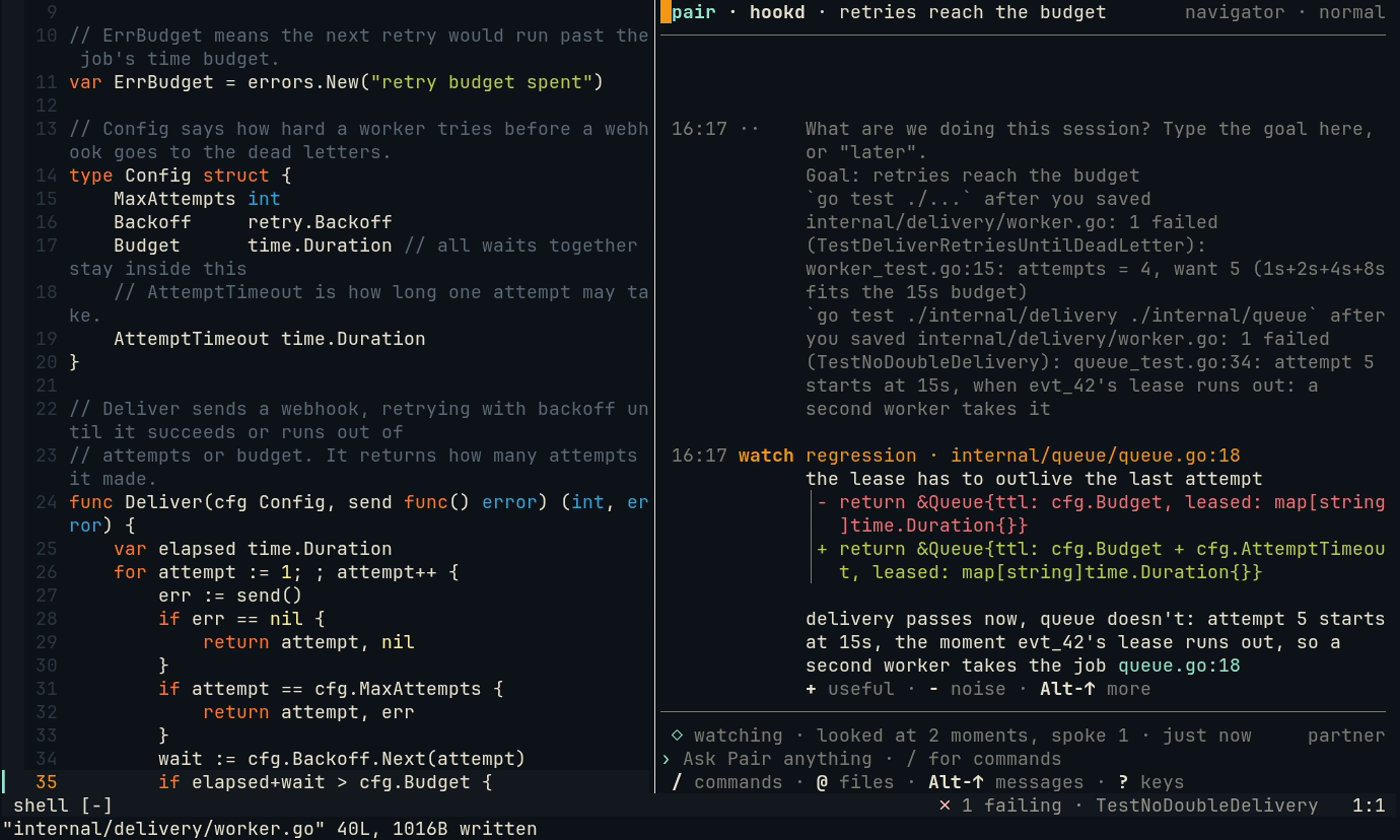
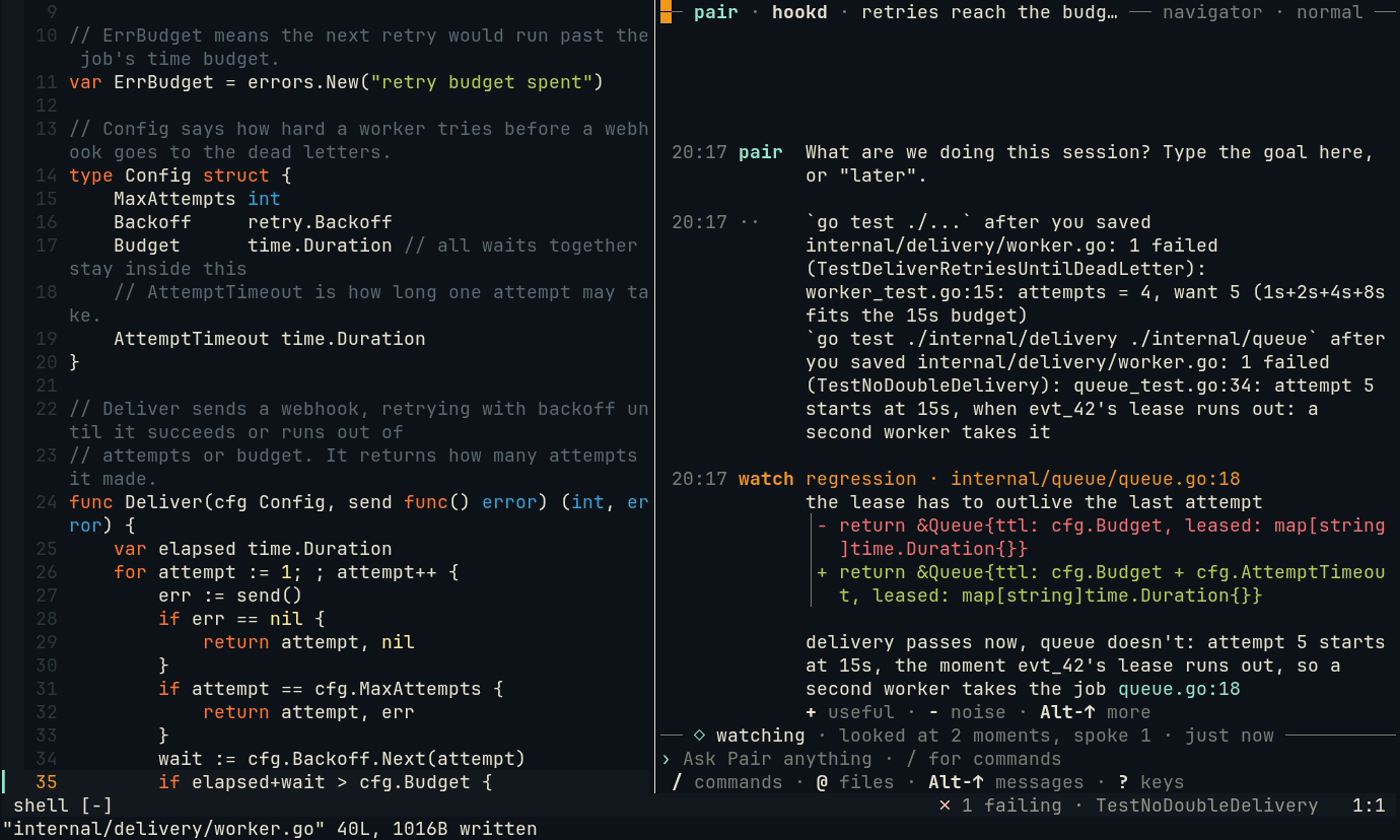
Chat captures re-recorded; a long command wraps at its spaces
The chat, held-thought and debrief scenes are recorded again with the
header and the status in their rules and the new colours. The chat tape
waits 1.5 s for the key help before its still, which came too early.
The command under Pair's y/N question wraps at its spaces behind the bar.

diff --git a/docs/captures/README.md b/docs/captures/README.md
@@ -68,7 +68,7 @@ recording comes out the same each time; the tutorial video's scenes use a real m
 | [agents](tapes/agents.tape) | your other agents' news, one line at your next breakpoint, and `:Pair agents` |
 | [notes](tapes/notes.tape) | notes in the margin: the marks, a fixed line, a decision logged, the tasks panel |
 | [teach](tapes/teach.tape) | Alt-? on a remark: the idea worth keeping behind it, and its link |
-| [chat](tapes/chat.tape) | the chat pane: a remark on save with its diff, a question asked there, the status row while Pair reads, the answer streaming in, a remark picked with `Ctrl-F`, and `?` |
+| [chat](tapes/chat.tape) | the chat pane: a remark on save with its diff, a question asked there, the status in the rule while Pair reads, the answer streaming in, a remark picked with `Ctrl-F`, and `?` |
 | [no-herdr](tapes/no-herdr.tape) | without herdr: `:Pair chat` opens the chat in Neovim, and Scout's pane is a `:terminal` along the bottom, sandboxed |
 
 ## The tutorial's scenes
